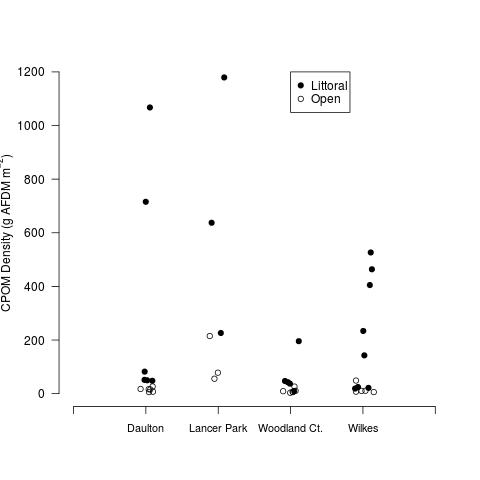
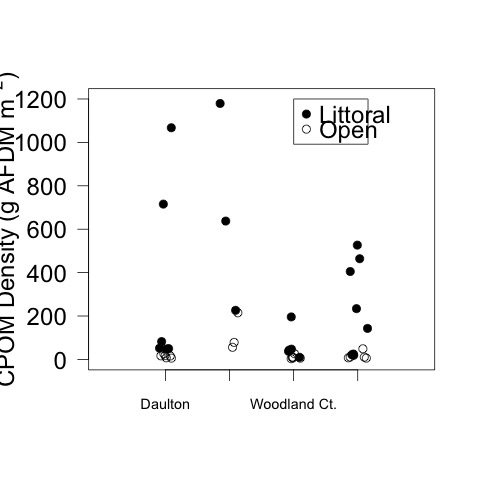
plots for ASB poster

diff --git a/lab_notebook/analysis/CPOM_survey_2013_analysis.md b/lab_notebook/analysis/CPOM_survey_2013_analysis.md
@@ -122,7 +122,7 @@ $WL
 
 ~~~~
 
-    par(las = 1, cex = 1)
+    par(las = 1, cex = 1.5)
     plot(jitter(rep(1, length(survey$CPOM.AFDM[survey$lake == "DP" & survey$location == "littoral"])), 5), survey$CPOM.AFDM[survey$lake == "DP" & survey$location == "littoral"], pch = 19, xlim = c(0, 5), ylim = c(0, 1200), axes = F, xlab = " ", ylab = expression(paste("CPOM Density (g AFDM m"^{-2}, ")")))
     points(jitter(rep(1, length(survey$CPOM.AFDM[survey$lake == "DP" & survey$location == "open"])), 5), survey$CPOM.AFDM[survey$lake == "DP" & survey$location == "open"])
     points(jitter(rep(2, length(survey$CPOM.AFDM[survey$lake == "LPP" & survey$location == "littoral"])), 5), survey$CPOM.AFDM[survey$lake == "LPP" & survey$location == "littoral"], pch = 19)
@@ -131,8 +131,9 @@ $WL
     points(jitter(rep(3, length(survey$CPOM.AFDM[survey$lake == "WC" & survey$location == "open"])), 2), survey$CPOM.AFDM[survey$lake == "WC" & survey$location == "open"])
        points(jitter(rep(4, length(survey$CPOM.AFDM[survey$lake == "WL" & survey$location == "littoral"])), 2), survey$CPOM.AFDM[survey$lake == "WL" & survey$location == "littoral"], pch = 19)
     points(jitter(rep(4, length(survey$CPOM.AFDM[survey$lake == "WL" & survey$location == "open"])), 2), survey$CPOM.AFDM[survey$lake == "WL" & survey$location == "open"])
-    axis(1, at = c(0, 1, 2, 3, 4, 5), labels = c(" ", "Daulton", "Lancer Park", "Woodland Ct.", "Wilkes", " "), tick = T, cex.axis = 0.9)
+    axis(1, at = c(1, 2, 3, 4), labels = c("Daulton", "Lancer Park", "Woodland Ct.", "Wilkes"), tick = T, cex.axis = 0.6)
     axis(2)
+    box()
     legend(3, 1200, c("Littoral", "Open"), pch = c(19, 1))
     dev.copy(jpeg, "./output/plots/CPOM_Dens_by_lake_scatter.jpg")
     dev.off()
